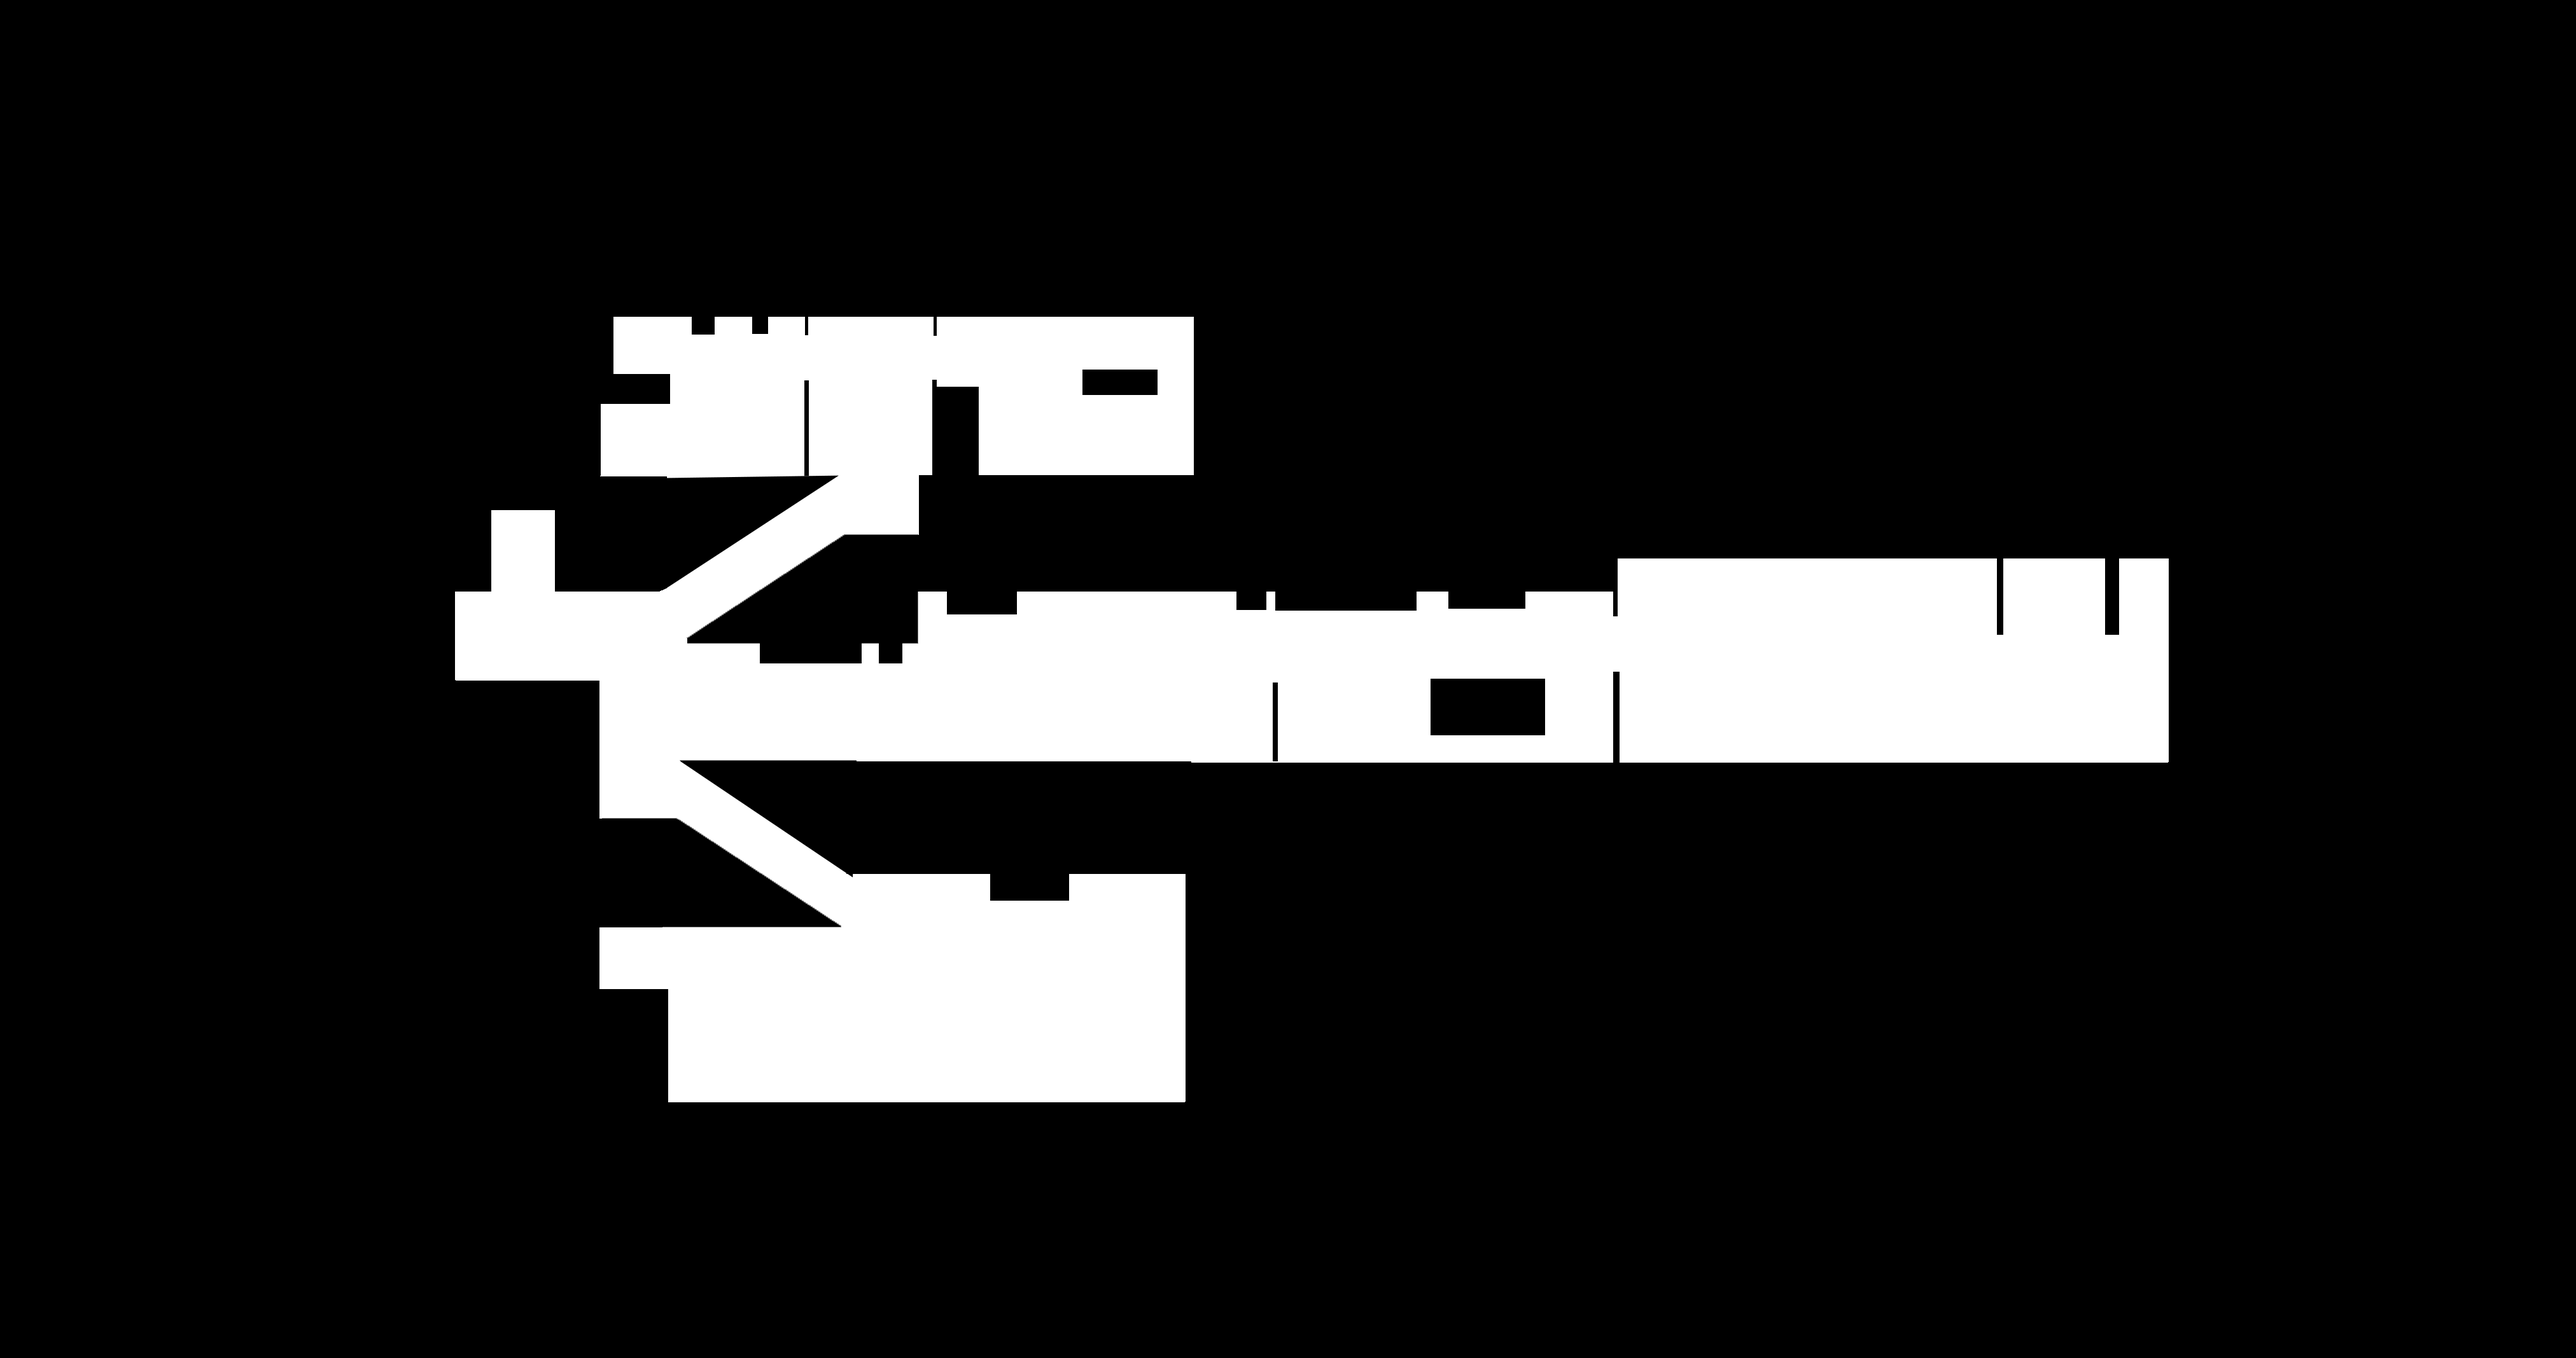
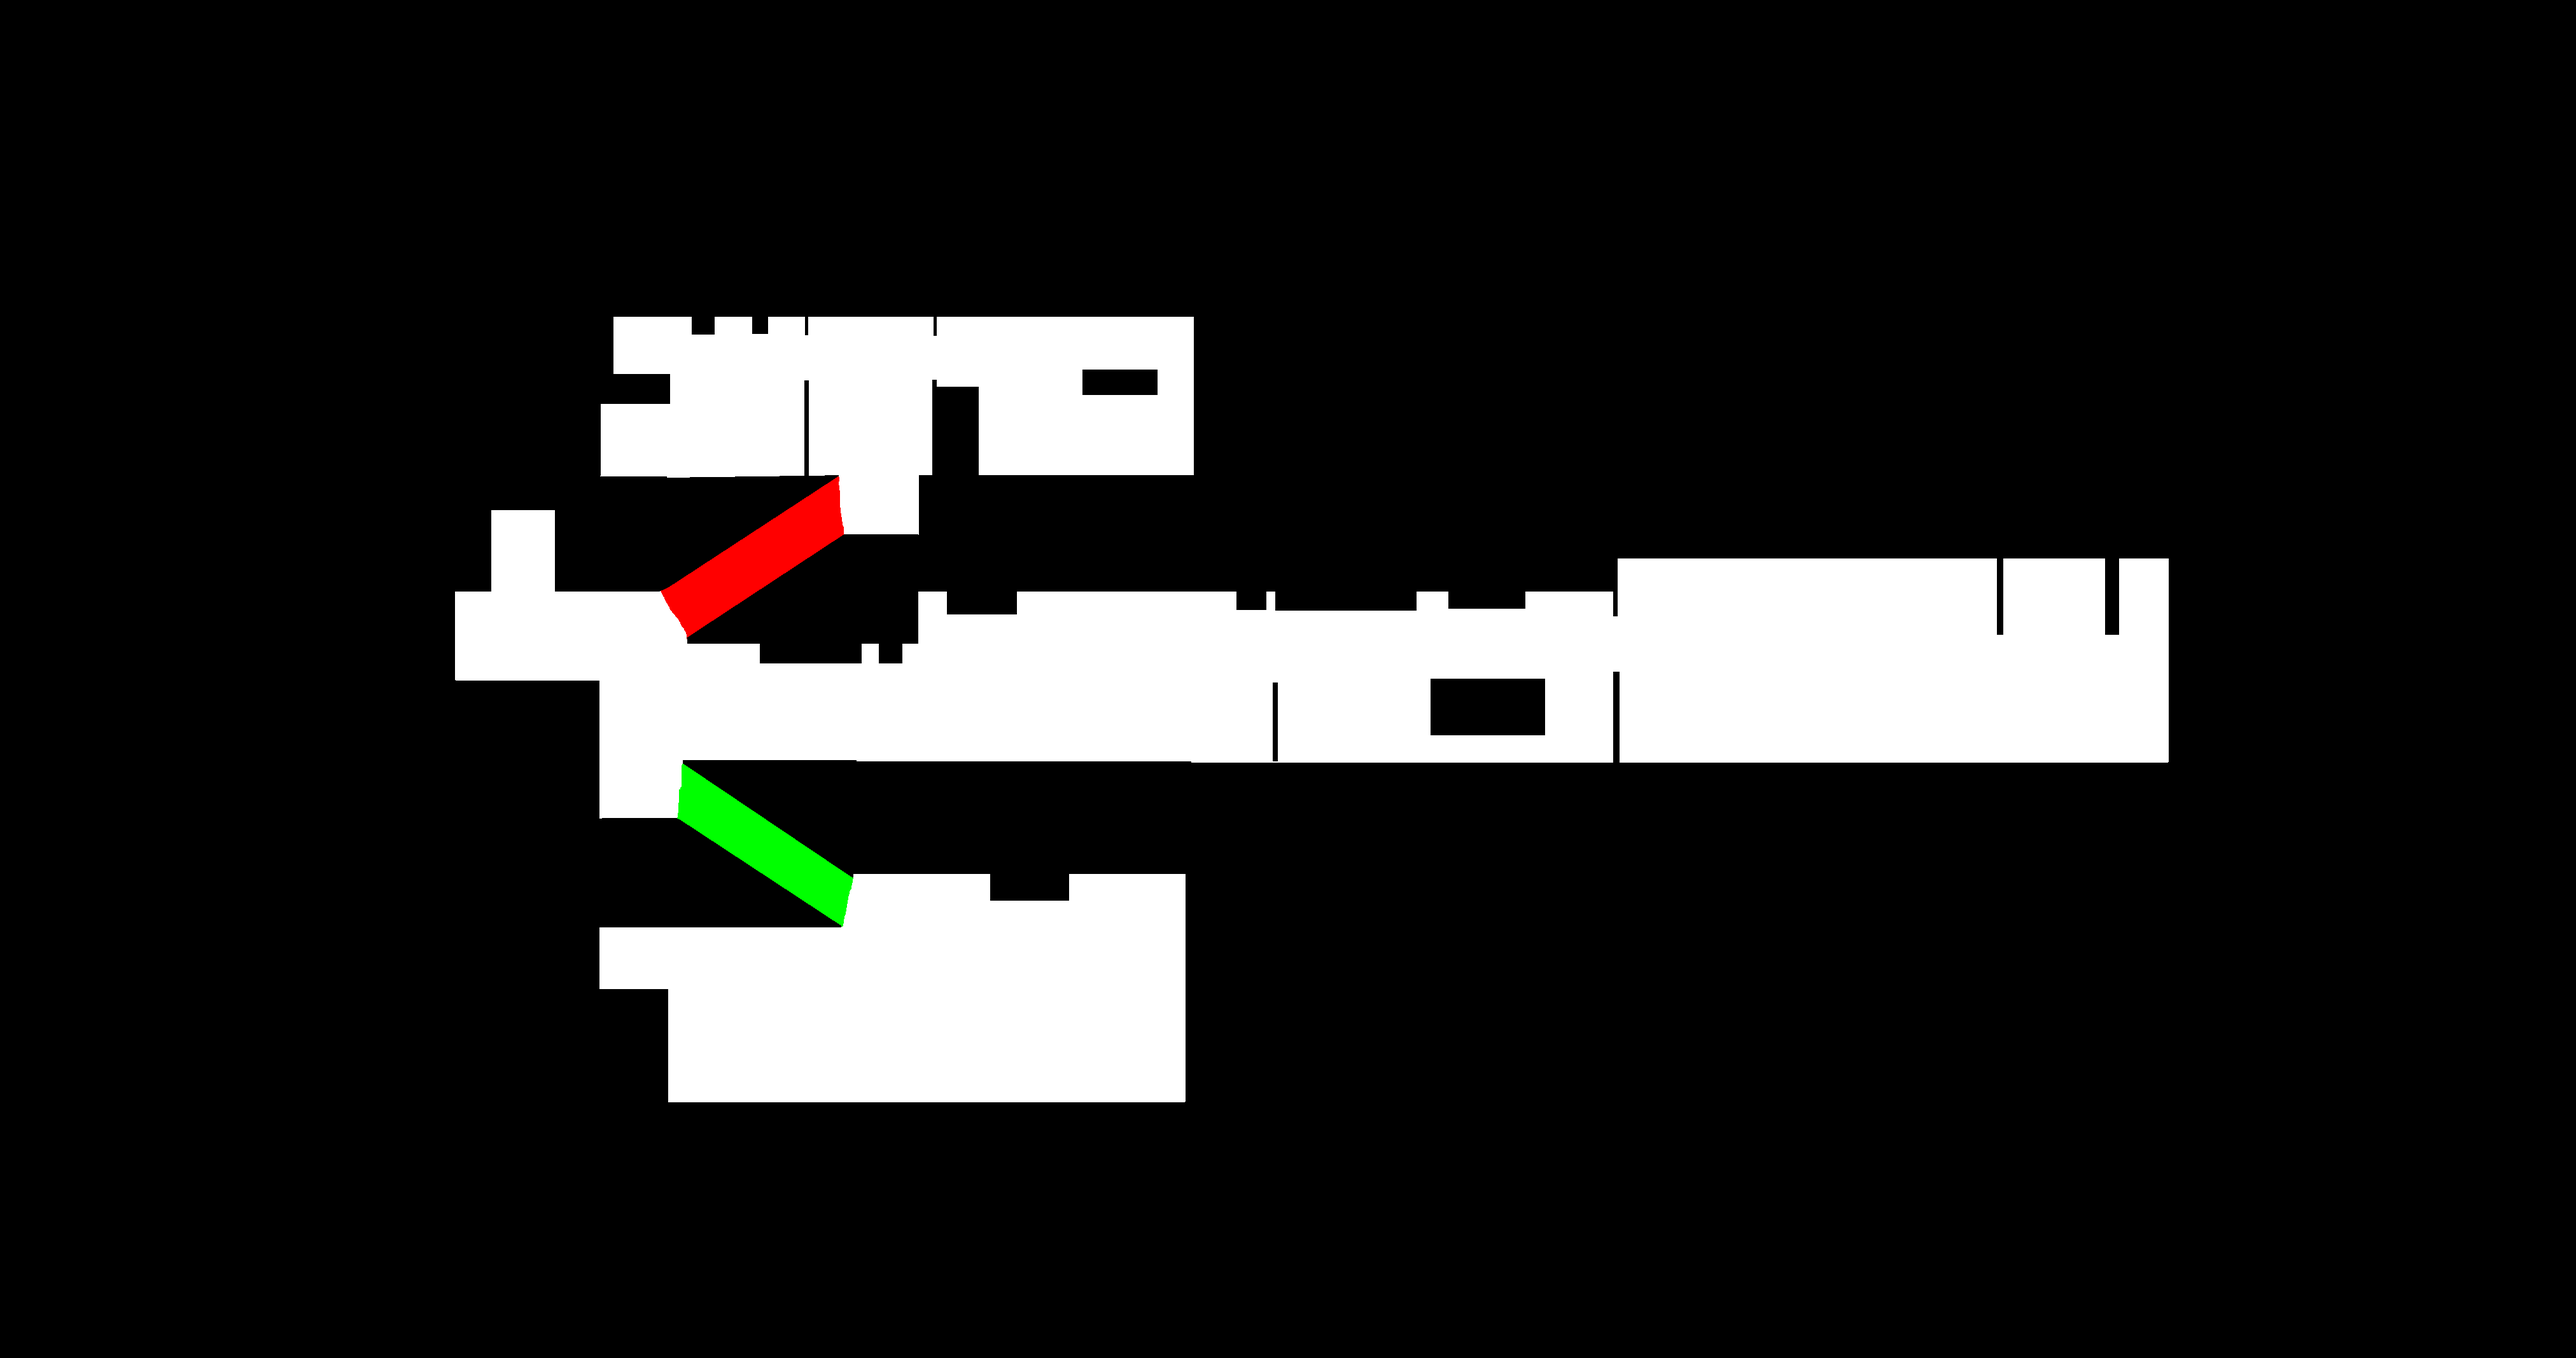
inclined ground, environment sprites, new camera points

Changed region(s): [[0.249, 0.34, 0.3424, 0.4637], [0.249, 0.5564, 0.3424, 0.6801]]

diff --git a/AdventureGame.cs b/AdventureGame.cs
@@ -15,7 +15,7 @@ namespace Adventure
 		public static AdventureGame instance;
 		public GraphicsDeviceManager graphics;
 		SpriteBatch entityBatch;
-		Texture2D shadowTexture, houseTexture;
+		Texture2D shadowTexture, houseTexture, collisionTexture;
         public Byte[,] collisionMap;
 		Camera gameCamera;
 		Character player;
@@ -82,7 +82,7 @@ namespace Adventure
 			this.InitEntities ();
 
 			// initialize the camera
-			gameCamera = new Camera(player, new int [] {100, 400, 800, 1200, 1600});
+			gameCamera = new Camera(player, new int [] {600, 1000, 1500});
 			this.entities.Add (gameCamera);
 
 			// init game
@@ -119,19 +119,27 @@ namespace Adventure
 			houseTexture = Content.Load<Texture2D> ("house");
 
 
-            Texture2D collisionTexture = Content.Load<Texture2D>("collision");
+            collisionTexture = Content.Load<Texture2D>("collision");
             Color[] collisionColors = new Color[collisionTexture.Width * collisionTexture.Height];
             collisionTexture.GetData<Color>(collisionColors);
 
             collisionMap = new Byte[collisionTexture.Height, collisionTexture.Width];
             for (int y = 0; y < collisionTexture.Height; y++)
             {
-                for (int x = 0; x < collisionTexture.Width; x++)
-                {
-                    if (collisionColors[x + y * collisionTexture.Width].A != 255)
+				for (int x = 0; x < collisionTexture.Width; x++) {
+					Color c = collisionColors [x + y * collisionTexture.Width];
+					if (c.G != c.R) {
+						Console.WriteLine (c);
+					}
+					if (c.R == 0 && c.G == 0 && c.B == 0) {
+						collisionMap [y, x] = 1;
+					} else if (c.R == 255 && c.G == 0 && c.B == 0) {
+						collisionMap [y, x] = 3;
+					} else if (c.R == 0 && c.G ==255 && c.B ==0) {
+	                    collisionMap[y, x] = 2;
+					} else {
                         collisionMap[y, x] = 0;
-                    else
-                        collisionMap[y, x] = 1;
+					}
                 }
             }
 
@@ -201,6 +209,7 @@ namespace Adventure
 
 			// draw hosue
 			entityBatch.Draw(houseTexture, new Vector2(0,0));
+			// entityBatch.Draw(collisionTexture, new Vector2(0,0), new Color(255,255,255, 200));
 
 			// draw entity shadows
 			foreach (BaseEntity e in this.entities) {
@@ -226,7 +235,7 @@ namespace Adventure
 		private void InitEntities() {
 			catSounds = new SoundFont ("soundfonts/SWAR1685_TalkingEngM");
 
-			player = new Character (new Vector2 (1000, 700),
+			player = new Character (new Vector2 (1000, 1200),
 				"bunny", new Color[] { new Color (255, 255, 255), new Color (255, 200, 200) },
 				"female_hipster", new Color[] { new Color (255, 255, 255), new Color (255, 255, 200) },
 				new PlayerBehavior()

diff --git a/entities/behaviors/PlayerBehavior.cs b/entities/behaviors/PlayerBehavior.cs
@@ -55,11 +55,20 @@ namespace Adventure
 
                 Vector2 newPosition = character.position + movement;
 
-                if (PlayerCollidesWithMap(new Vector2(newPosition.X, character.position.Y)) == false)
+				if (movement.X != 0) {
+					int incline = GroundIncline (character.position);
+					int playerWalk = (int)(movement.X / Math.Abs(movement.X));
+					Console.WriteLine ("incline: " + incline + "walk: " + playerWalk);
+					if (playerWalk == incline || playerWalk == -incline) {
+						newPosition.Y -= movement.X * 0.67f * incline;
+					}
+				}
+
+                if (!PlayerCollidesWithMap(new Vector2(newPosition.X, character.position.Y)))
                 {
                     character.position.X = newPosition.X;
                 }
-                if (PlayerCollidesWithMap(new Vector2(character.position.X, newPosition.Y)) == false)
+                if (!PlayerCollidesWithMap(new Vector2(character.position.X, newPosition.Y)))
                 {
                     character.position.Y = newPosition.Y;
                 }
@@ -67,6 +76,21 @@ namespace Adventure
                 
 			} else {
 				character.PlayAnimBody("idle");
+			}
+		}
+
+		protected int GroundIncline(Vector2 pos) {
+			byte ground = AdventureGame.instance.collisionMap [(int)pos.Y, (int)pos.X];
+			switch (ground) {
+			case 2: // up to the left
+				return -1;
+			case 3: // up to the right
+				return 1;
+
+			case 0: // normal
+			case 1: // wall
+			default:
+				return 0;
 			}
 		}
 

diff --git a/Camera.cs b/Camera.cs
@@ -23,11 +23,10 @@ namespace Adventure
 
 		override public void Update(GameTime time) {
 			// figure out where we should be aiming for
-			Rectangle viewBounds = AdventureGame.instance.graphics.GraphicsDevice.Viewport.Bounds;
-			destination.X = following.position.X - viewBounds.Width / 2;
+			destination.X = following.position.X;
 			destination.Y = snapHeights [0];
 
-			float followY = following.position.Y - viewBounds.Height / 2;;
+			float followY = following.position.Y;
 			foreach (int height in snapHeights) {
 				if (Math.Abs (height - followY) < Math.Abs (destination.Y - followY)) {
 					destination.Y = height;
@@ -48,7 +47,8 @@ namespace Adventure
 
 		public Matrix Transform {
 			get {
-				return Matrix.CreateTranslation (new Vector3 (-this.position.X, -this.position.Y, 0));
+				Rectangle viewBounds = AdventureGame.instance.graphics.GraphicsDevice.Viewport.Bounds;
+				return Matrix.CreateTranslation (new Vector3 (-this.position.X + viewBounds.Width/2, -this.position.Y + viewBounds.Height/2, 0));
 			}
 		}
 	}

diff --git a/Inventory.cs b/Inventory.cs
@@ -42,7 +42,7 @@ namespace Adventure
 		const int TEXT_MARGIN = 10;
 		static Easing<Vector2> descriptionOffset = new Easing<Vector2> (
 			                                           new Vector2 (0, TEXT_MARGIN),
-			                                           new Vector2 (0, -64 - TEXT_MARGIN),
+			                                           new Vector2 (0, -80 - TEXT_MARGIN),
 			                                           5
 		                                           );
 
@@ -88,8 +88,13 @@ namespace Adventure
 			);
 			batch.DrawString (
 				AdventureGame.DefaultFont,
-				SelectedItem.description,
+				SelectedItem.name,
 				textLocation,
+				Color.White);
+			batch.DrawString (
+				AdventureGame.DefaultFont,
+				SelectedItem.description,
+				textLocation + new Vector2(0, 32),
 				Color.White);
 		}
 
